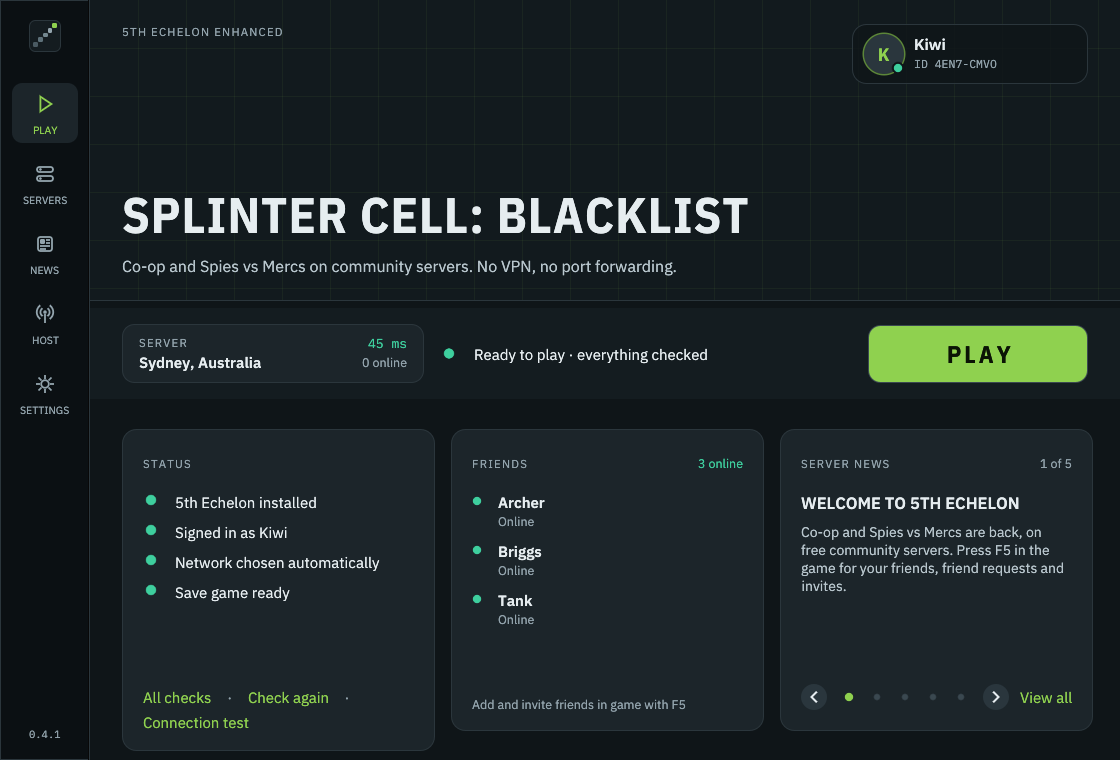
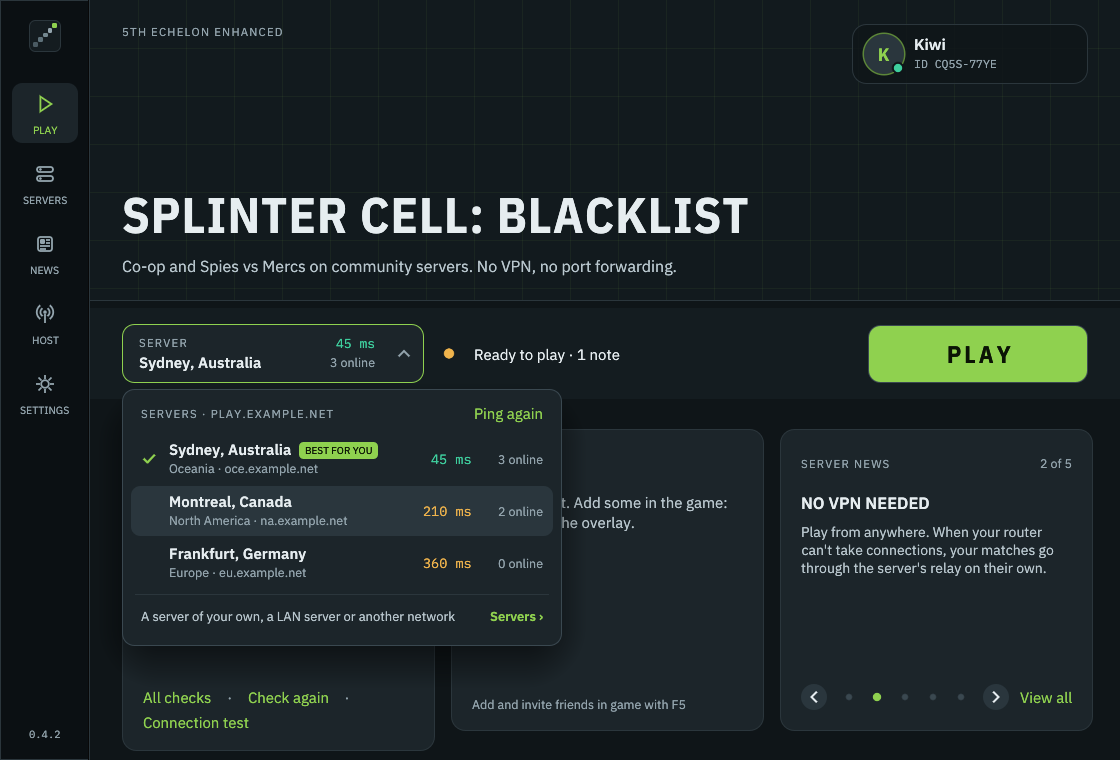
Docs 0.4.2: the server menu, the activity bar, update notices, accounts made for you
Release notes and README for the four launcher changes, with the Play and
Servers screenshots retaken (a made-up network and player). friends.md:
rollout in /v1/servers, NameAvailable, and the new switching; operations.md:
what players see while a release goes out; server-settings.md: name checks'
rate limit.

diff --git a/README.md b/README.md
@@ -42,7 +42,7 @@
 2. Run it. Under **Choose a server** it lists the community servers with your ping to each, the closest already picked.
 3. Press **Connect** (the first time, pick the name other players will see), then **Play**. Press <kbd>F5</kbd> in the game to add friends.
 
-The launcher pings every server in the network and sets you up on the one with the lowest ping (the setup log says which). Afterwards the Play screen lists them all with your ping to each, and **Switch** moves you to another in one click, with the same name and friends.
+The launcher pings every server in the network and sets you up on the one with the lowest ping (its steps, under **Steps** in the bar along the bottom, say which). Afterwards the server card on the Play screen lists them all with your ping to each, and picking one moves you there in one click, with the same name and friends.
 
 ### Run your own server
 
@@ -117,25 +117,29 @@ You need **Splinter Cell: Blacklist on PC** (Steam or Ubisoft Connect) and **Win
   <img src="./docs/screenshots/launcher-setup.png" width="640" alt="The launcher's first-run setup: the steps on the left, and the community servers with your ping to each, the closest picked">
 </p>
 <p align="center">
-  <img src="./docs/screenshots/launcher-play.png" width="640" alt="The launcher's home screen: your profile on the banner, the server with its ping, Ready to play and a big Play button, and cards for status, friends online and the server's news">
+  <img src="./docs/screenshots/launcher-play.png" width="640" alt="The launcher's home screen with the server menu open: the network's servers best first, each with its ping and players online, the current one ticked; beside it Ready to play and a big Play button, and cards for status, friends and the server's news">
 </p>
 
 **What Connect does for you:**
 - installs the 5th Echelon client into the game, keeping the game's own file so you can undo it;
 - checks the server answers;
-- finds your account with your identity (no username or password to remember), or creates one with the name you choose, with a random password for that server only;
+- finds your account with your identity (no username or password to remember), or creates one with a random password for that server only: with the name you choose the first time, and on the community's other servers with the same name, without asking (you're asked only if someone there already has it);
 - keeps every account linked to your identity, so friends follow you between servers and a new PC signs straight in;
 - leaves the network adapter to the game: each time it starts, it uses the one that reaches the server, so other players can reach you (and switching between Wi-Fi and Ethernet doesn't matter);
 - brings over your Ubisoft Connect save, or makes a rank 5 one, so co-op and Spies vs Mercs are unlocked.
 
-The **Status** card on the home screen keeps an eye on all of this. Anything that goes wrong later (a VPN that's off, an update) shows up there with a button that fixes it, and the bar beside **Play** says whether you're ready. **Friends** shows who's online and what they're playing (and friends on other servers, with a button to join them), and **Server news** turns through the server's news; the **News** screen has all of it. The **Servers** screen lists the network's servers with your ping, the players on each and the friends there, and switches you over in one click; your identity signs you in there with the same name.
+The **Status** card on the home screen keeps an eye on all of this. Anything that goes wrong later (a VPN that's off, an update) shows up there with a button that fixes it, and the bar beside **Play** says whether you're ready. **Friends** shows who's online and what they're playing (and friends on other servers, with a button to join them), and **Server news** turns through the server's news; the **News** screen has all of it.
+
+**The server card** opens a menu of the network's servers, best first, with your ping and the players on each: pick one and you're switched there at once, signed in with the same name. The **Servers** screen is for the rest: a server of your own (with your recent ones), one at a LAN party, or another group's network, with one click back to the community's.
+
+**Along the bottom,** one bar shows whatever the launcher is doing (switching servers, with its steps; creating your account; sending a report, with how much has gone up; installing; updating) and anything that went wrong, with **Try again** and **Copy details**. **While a new release goes out** to the servers, a notice under the launch bar says when your server updates and is back, in your own time zone, and that you can keep playing until then.
 
 **How did that go?** When the game closes after something went wrong (a join that failed, a crash, a refused sign-in), and about once a week after a normal online game, the launcher asks how it went: good or not, what went wrong, and a comment. If you agree, your logs go with it to the admins of the server you play on, who see them in the admin UI's Reports. Before anything leaves your PC, your user folder, your PC's and Windows account's names and your internet address are hidden, and **What's sent** shows exactly what goes. It asks at most once a day; **Don't ask again** (or **Settings › Feedback**) turns it off, and **Settings › Feedback › Send feedback** sends one any time.
 
 **While you play,** the game sends the server it's signed in to its warnings, errors and network events (a few lines a minute at most, never the whole log), so the server's admins can see why a join or a connection failed. The same private details are hidden first. **Settings › Feedback › Send the game's diagnostics to the server** turns it off.
 
 <p align="center">
-  <img src="./docs/screenshots/launcher-servers.png" width="640" alt="The launcher's Servers screen: a card per community server with ping and players, the one you're on marked Connected, and joining by address or on your network">
+  <img src="./docs/screenshots/launcher-servers.png" width="640" alt="The launcher's Servers screen: the network in use with a box for another network's address and a link back to the community network, a server of your own by address with two recent servers, and finding a server on your network">
 </p>
 
 > [!TIP]
@@ -268,7 +272,7 @@ Everything the launcher does can be done by hand:
 - **An in-game overlay** (<kbd>F5</kbd>): friends and what they're playing, friend requests, player search and blocking, invites, lobby player limits, and server status.
 - **One identity, every server:** the launcher makes you an identity (a key that stays on your PC) and links every account to it. It finds your account on a server by itself, with no username or password to remember, and asks for a name only the first time. Friends made on one server show up on every other server that shares a coordinator, and friends playing on another of them are listed in the overlay and the launcher, which joins you to their server in one click. Moving PCs? Copy your identity across in **Settings**, before connecting on the new PC ([how](docs/friends.md#your-identity)).
 - **Your name is yours:** servers that share a coordinator reserve each name for one player. Elsewhere, the overlay warns when someone has a friend's name but isn't them. You can rename your account from the launcher.
-- **A server directory:** joining a server that shares a coordinator brings in its directory. The launcher pings every server in it, preselects the best (the lowest ping, then the busiest), and offers a one-click **Switch** to a closer one.
+- **A server directory:** joining a server that shares a coordinator brings in its directory. The launcher pings every server in it, preselects the best (the lowest ping, then the busiest), and its server menu moves you to another in one click.
 - **Save games:**
   - a rank 5 save for new players with no save anywhere;
   - raising an existing save to rank 5 (with a backup first);
@@ -516,7 +520,7 @@ Compared with upstream [5th Echelon 0.2.5](https://github.com/unixoide/5th-echel
 **Launcher**
 - Rewritten in egui around a new `setup` library, for Windows and Linux (Steam, Flatpak, Steam Deck, Lutris, Heroic).
 - A guided first-run setup, and a Status card with fixes. **Connect** finds your account with your identity, and asks for a name only when you have none on that server.
-- Typing a network's address (a coordinator) sets you up on its best server by ping; **Switch** moves to another.
+- Typing a network's address (a coordinator) sets you up on its best server by ping; the server menu moves you to another.
 - Adapter pinning that works (upstream's saved a value that never matched an adapter).
 - Server management, and verified updates from this project's releases.
 - Settings are never silently reset: an unreadable file is kept as `uplay.toml.broken`, and outside changes are merged rather than overwritten.

diff --git a/docs/friends.md b/docs/friends.md
@@ -48,6 +48,8 @@ The blocked player isn't told. Their friend requests look sent, but never arrive
 - **The server sets each account's id** (the game's "Ubisoft id"), so no one can register with someone else's.
 - **Renaming:** **Settings › Servers and accounts › Rename** in the launcher. The account id stays, so friends, blocks and invites carry on, and the old name is free again.
 - **New names** are 1 to 32 letters, digits, `_`, `-` and `.`.
+- **Checking a name** without making anything: the API's `Users.NameAvailable` answers `FREE`, `TAKEN` (an account here has it, or another player across the servers sharing friends) or `NOT_ALLOWED` (its length, its characters, or a reserved name such as "admin"), with the reason. It's rate limited per address, as sign-ins are (`[limits] logins_per_10_minutes`, counted on its own). Servers that answer it list `name-check` in `/api/info`'s features; the launcher checks names with it as they're typed.
+- **On a community server** (one in your network's directory) where you have no account yet, the launcher makes one with your usual name (the one on most of your servers), without asking. It asks only when that name is taken there (an account from before names were reserved), or you have no name yet, and suggests free ones (`Kiwi_NZ` from your PC's region, `Kiwi2`). Connecting to a server of your own always asks, with your usual name filled in.
 - **Sign-in tokens** for the launcher and the overlay expire after 30 days. The game signs in again on its own.
 
 ### Passwords
@@ -101,7 +103,7 @@ Names are unique on each server, so two strangers could both be "Kiwi" on differ
 - **The coordinator reserves names.**
   - A name belongs to the identity that first used it, on any server in the group, whatever the case.
   - The launcher makes each account with your identity's signature, so the server claims the name for you before making the account.
-  - On another server of the group, a name someone else holds is refused ("That name belongs to another player on the servers sharing friends"). The launcher then picks the next free one (`Kiwi2`), as it does for a name taken on that server.
+  - On another server of the group, a name someone else holds is refused ("That name belongs to another player on the servers sharing friends"). The launcher then asks for another, with free ones to pick (`Kiwi2`), as it does for a name taken on that server.
 - **Accounts made without an identity** (an older launcher, the community API) can only take names nobody has reserved.
 - **Clashes from before** (two servers that had a "Kiwi" each, then joined one coordinator): the first to link keeps the name. The other account keeps working, but is flagged. Its owner sees a note in the overlay's Friends tab asking them to rename, and anyone looking them up sees "another player has this name on other servers". Renaming clears it.
 - **A rename claims the new name first**, and the old one is released once nothing of yours uses it.
@@ -158,7 +160,8 @@ You can also type a coordinator's address where you'd type a server's (the commu
 The first server you join that uses a coordinator brings its directory: the launcher uses it from then on. A directory you set yourself, in **Settings › Identity and friends**, is never replaced.
 
 - **The join form** pings the directory's servers as soon as it opens, and preselects the best (unless you've typed a server).
-- **Once you've joined,** the server card lists the network's servers with your ping to each. **Switch** sets you up on another in one click: your identity signs you in there, with the same name, and your friends follow.
+- **Once you've joined,** the server card on the Play screen opens a menu of the network's servers, best first, with your ping to each and the players on it. Picking one switches you there at once: your identity signs you in, with the same name (an account is made for you if you have none there), and your friends follow.
+- **The Servers screen** shows the network in use, and takes another network's address (it must answer `/v1/info` and `/v1/servers`), with one click back to the community network.
 
 - Only `https://` directories are used.
 - A directory entry must be a public host name or address. Entries for private addresses (your own network) are skipped, as are more than 200 entries.
@@ -206,7 +209,7 @@ The server keeps its credentials in `federation.key` once it has joined. Its log
 |---|---|---|
 | `POST /v1/join` `{token, server_id}` | a new server | joins; answers `{secret}` |
 | `POST /v1/heartbeat` | a member (Bearer secret) | its directory entry, every 30 seconds (6 a minute at most); answers `{update?, warnings?}`, e.g. a name of its that another server holds |
-| `GET /v1/servers` | anyone | the directory: servers seen in the last 2 minutes |
+| `GET /v1/servers` | anyone | the directory: servers seen in the last 2 minutes, each with its `version` and `players_online`; and while a release is going out (its canary, verifying or rolling stage, not when it's done, halted or paused), `rollout` `{release, stage, stage_started, canary, healthy_for, quiet_wait}`: `stage_started` in Unix seconds (UTC), `canary` the id of the server it's tried on first, and the rule's times in seconds (see [operations.md](operations.md#what-players-see)) |
 | `POST /v1/changes` `{changes: [...]}` | a member | links, unlinks, friendships and blocks, in order; one result each. `429` for the whole batch past 120 new links an hour (50,000 in all): the server sends it again later |
 | `GET /v1/relations/<identity>` | a member | a player's friends and blocks, for a player linked on that server |
 | `POST /v1/names/claim` `{name, global_id, time, signature}` | a member | reserves a name for a player (their link signature for that server, from the last five minutes); `409` if someone else has it |

diff --git a/docs/releases/v0.4.2.md b/docs/releases/v0.4.2.md
@@ -1,4 +1,4 @@
-Joins that fail are easier to fix, reports with logs get through, and the launcher finds a server when the coordinator is down.
+Switching servers is one click, the launcher shows what it's doing in one place, tells you when your server updates, and makes your account for you. Joins that fail are easier to fix, reports with logs get through, and the launcher finds a server when the coordinator is down.
 
 ## Play
 
@@ -17,6 +17,10 @@ Before anything leaves your PC, your PC's name, your Windows account name, your 
 - **Large requests from the game** (a big stats request, say) no longer fail when their pieces arrive out of order.
 
 ### The launcher
+- **A server menu on the Play screen.** The server card opens the community servers, best first, with your ping and the players on each. Pick one and you're switched there at once, with your friends and name. A server of your own, a LAN party's or another group's network is on the **Servers** screen, with your recent servers and one click back to the community network.
+- **One activity bar** along the bottom for everything that takes a while, and every error: switching servers (with its steps, and how long each took, under **Steps**), creating your account, sending feedback (with how much has gone up; the window closes as soon as you press **Send**), installing, the connection test and updates. Something that fails stays until you close it, with **Try again**, **Copy details**, and for a report, **Without logs**.
+- **Your account is made for you** on a community server you haven't played on: with the name you use everywhere, no questions. You're asked only if someone there already has it (an account from before names were kept for each player), with the name checked as you type and free ones to pick.
+- **When your server updates:** while a new release goes out to the servers, a notice under the launch bar says when yours updates and is back, in your own time zone, and that you can keep playing until then. While it restarts, it offers a server already on the new release; and if your server runs a newer version than your launcher, **Update and restart**.
 - **A warning when the game's data is modified**, naming the mod when it's a known one (the balaclava mod), with how to play with everyone.
 - **Servers without the coordinator:** the launcher remembers the last server list and knows the community's three servers, so you can still find and join one when the coordinator is down.
 - **No more `bl-dataversion.txt`:** the game no longer writes what its data version is made of, and the launcher deletes the file left from earlier versions. It can be turned back on, for working out a "different version of the game", under **Settings › Advanced › Hooks**.
@@ -32,4 +36,5 @@ Before anything leaves your PC, your PC's name, your Windows account name, your 
 - **Alerts:** one when every server goes silent at once (the coordinator can't be reached), and one for a server whose launcher API stops answering.
 - **Backups:** with `/etc/5th-echelon/backup.env`, the installer streams each database to Cloudflare R2 (seconds behind, a week of history) and archives to Backblaze B2.
 - **Caddy waits longer for uploads:** request bodies may take 3 minutes and be 8 MB (were 30 s and 4 MB), so players' reports from far away get through. Rerun the installer to apply it.
+- **The server directory** (`/v1/servers`) says when a release is going out (its stage, when it began, and the canary), for players' launchers; servers answer **name checks** (`NameAvailable`) for the launcher, rate limited like sign-ins.
 - SQLite in WAL mode; Uplay's "actions completed" acknowledged; outdated clients retrying a refused sign-in cost the server less.

diff --git a/docs/server-settings.md b/docs/server-settings.md
@@ -109,7 +109,7 @@ require_tls_for_credentials = false  # true: passwords and sign-ins only over HT
 
 - With `require_identity = true` (the installer's default), accounts are only made through the launcher, linked to the player's identity: the launcher finds a player's account by their identity, so they never type a password, and accounts can't be unlinked. `/api/register` and password-only registrations are refused.
 
-- The login limits cover the game's own login, the launcher's (gRPC) and the community API. `failed_logins_per_10_minutes` counts failures: players sharing one address sign in often, and only password guessing fails a lot. `logins_per_10_minutes` counts every login, because each one checks a password, which takes the server real work; raise it if many players sign in from one address (a big LAN party playing on a server elsewhere).
+- The login limits cover the game's own login, the launcher's (gRPC) and the community API. `failed_logins_per_10_minutes` counts failures: players sharing one address sign in often, and only password guessing fails a lot. `logins_per_10_minutes` counts every login, because each one checks a password, which takes the server real work; raise it if many players sign in from one address (a big LAN party playing on a server elsewhere). The launcher's name checks (`NameAvailable`, as a player types a name for a new account) are allowed as many again, counted on their own.
 - When many logins at once keep the server checking passwords for more than a few seconds, further ones are answered "busy, try again" instead of waiting in line.
 - Players behind one address (a LAN party, a household) share the registration budget, so raise it if a big group sets up at once.
 - Requests from the server's own machine (loopback) are never limited.

diff --git a/docs/operations.md b/docs/operations.md
@@ -21,6 +21,16 @@ A coordinator does more than share friends. It keeps every server in its network
 
 **What's rolled out on its own:** a release newer than the one being rolled out (with none yet, not older than the coordinator's own), and at most one major version past it. Anything else is recorded, and an admin can roll it out (Roll this out). The signature names the version, so an old signed release published again under a new tag doesn't verify.
 
+### What players see
+
+While a release is going out, `/v1/servers` carries the rollout (see the [coordinator's API](friends.md#the-coordinators-api)), and players' launchers show a notice under the launch bar, read again every minute:
+
+- **While it's tested:** the canary's minutes left, and when the player's own server updates: about two minutes after the test, or for a server with players on, once they leave and by two hours into the stage at the latest. They can keep playing until their server restarts.
+- **While their server restarts:** back in about two minutes (the launcher checks every 15 seconds), and a server already on the release to play on meanwhile.
+- **When their server runs a newer release than their launcher** (it turns older games away): **Update and restart**, and **Play** waits.
+
+Each server is shown with its version (old → new while it installs) and what's happening to it. Times are relative first, then the clock time in the player's own time zone and 12 or 24-hour style ("in ~16 min, about 9:46 pm NZDT"); the coordinator sends Unix timestamps only.
+
 ### On each machine
 
 The server and the coordinator run unprivileged, and can't change their own programs. The installer adds a root updater:
